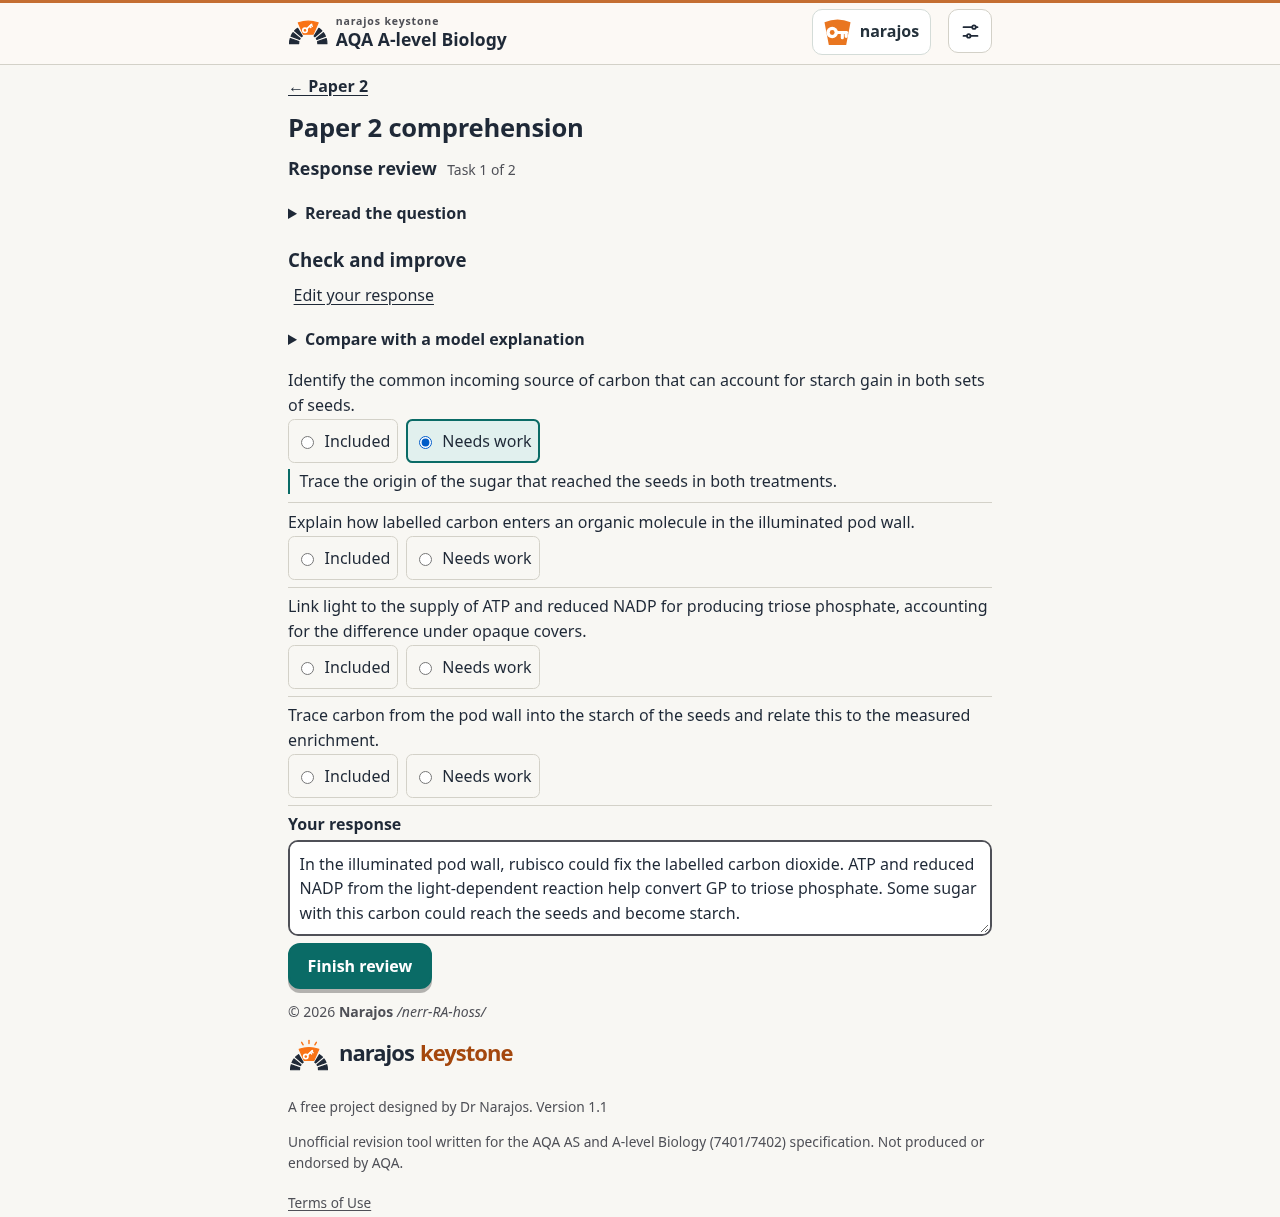
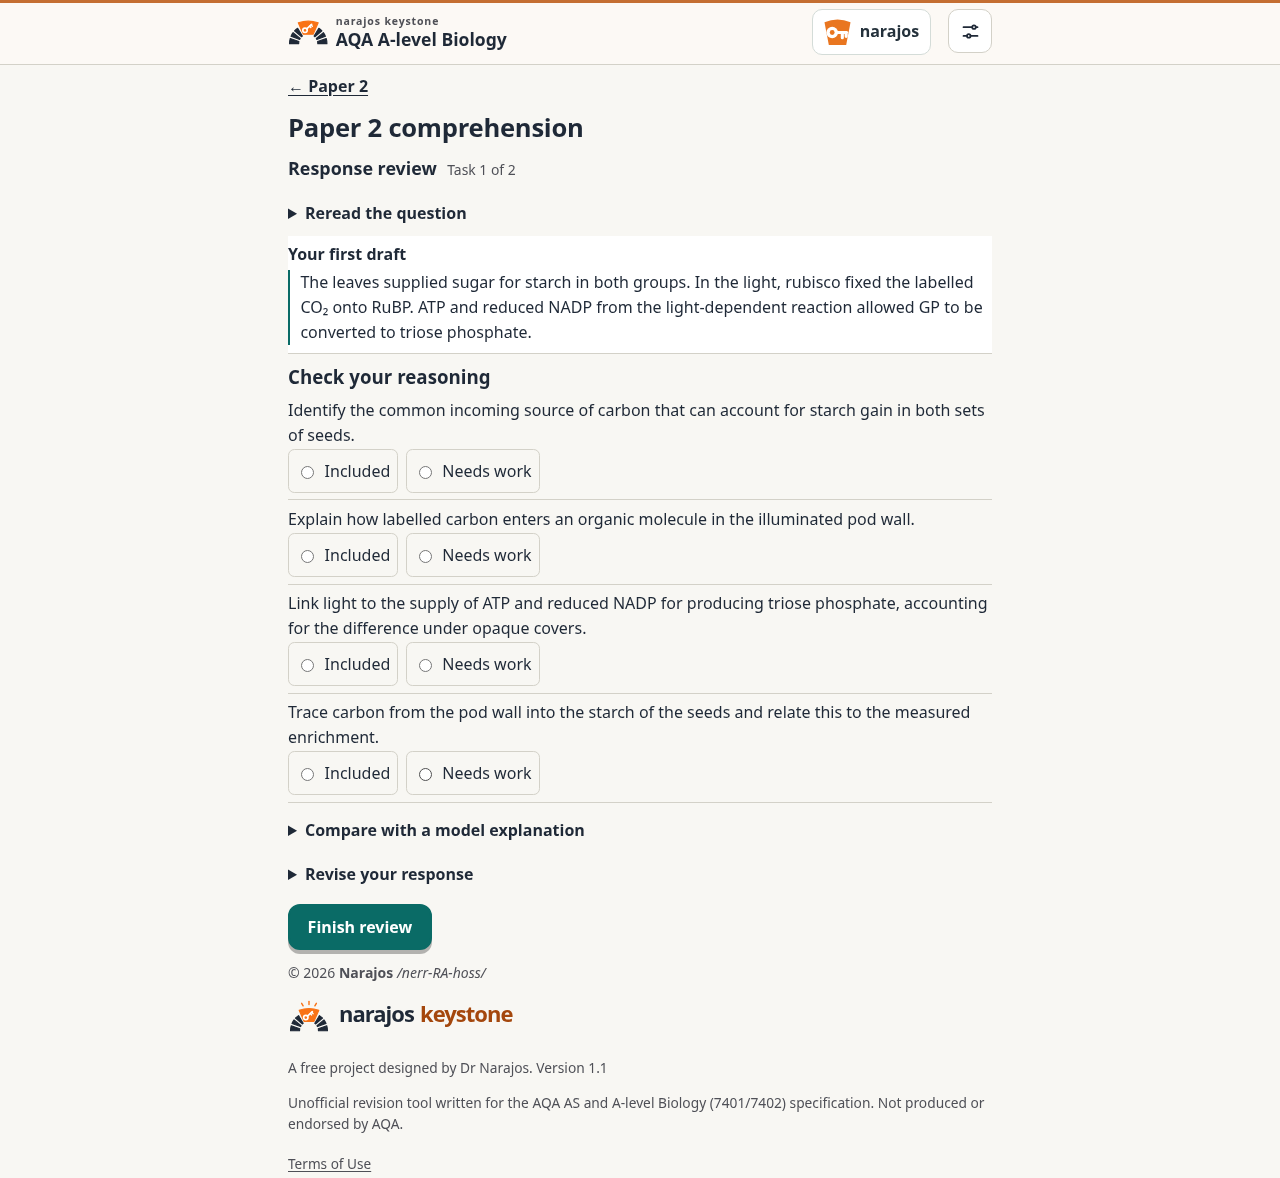
[skip ci] Keep the first biology response in view during self-review

Changed region(s): [[0.2188, 0.0, 0.7812, 1.0], [0.625, 0.0, 0.7188, 0.0611], [0.75, 0.0306, 0.7812, 0.0611]]

diff --git a/public/alevel/exam-skills.js b/public/alevel/exam-skills.js
@@ -47,14 +47,13 @@
     element.tabIndex = -1;
     element.focus();
   }
-  customElements.define("al-paper-table", class extends HTMLElement {
+  customElements.define("al-paper-scroll", class extends HTMLElement {
     connectedCallback() {
-      const grid = this.querySelector("table");
       const update = () => {
-        if (this.scrollWidth > this.clientWidth) {
+        if (this.scrollWidth > this.clientWidth || this.scrollHeight > this.clientHeight) {
           this.tabIndex = 0;
           this.setAttribute("role", "region");
-          this.setAttribute("aria-label", grid.caption.textContent);
+          this.setAttribute("aria-label", this.dataset.label);
         } else {
           this.removeAttribute("tabindex");
           this.removeAttribute("role");
@@ -63,7 +62,7 @@
       };
       this.sizeObserver = new ResizeObserver(update);
       this.sizeObserver.observe(this);
-      this.sizeObserver.observe(grid);
+      this.sizeObserver.observe(this.firstElementChild);
       update();
     }
     disconnectedCallback() {
@@ -72,8 +71,9 @@
   });
 
   function table(caption, headers, rows, highlights = [], paper = false) {
-    const wrap = node(paper ? "al-paper-table" : "div", null, "al-table"),
+    const wrap = node(paper ? "al-paper-scroll" : "div", null, "al-table"),
       t = node("table");
+    if (paper) wrap.dataset.label = caption;
     t.createCaption().textContent = caption;
     const hr = t.createTHead().insertRow();
     headers.forEach((h, i) => {
@@ -605,10 +605,10 @@
           const original = state.reviews[i]?.original;
           if (flow.paper && original && original !== state.drafts[i]) {
             const first = node("details");
-            first.append(node("summary", "Read your first draft"), node("p", original));
+            first.append(node("summary", "Read your first draft"), node("p", original, "al-saved-draft"));
             item.append(first);
           }
-          item.append(node("p", state.drafts[i]));
+          item.append(node("p", state.drafts[i], flow.paper ? "al-saved-draft" : null));
           const criteria = node("ul");
           q.points.forEach((point, j) => {
             const answer = state.reviews[i]?.choices?.[j];
@@ -652,6 +652,9 @@
       const accepted = isAccepted(i);
       const revealed = state.results[i]?.kind === "revealed";
       const review = state.reviews[i] || { choices: {} };
+      const paperReview = flow.paper && writing && review.open;
+      if (paperReview) review.original ??= state.drafts[i] || "";
+      const revised = paperReview && state.drafts[i] !== review.original;
       let phaseLabel = q.guided ? "With support" : "Your turn";
       if (flow.paper) {
         if (review.open) phaseLabel = "Response review";
@@ -742,7 +745,10 @@
           form.append(label);
         });
       } else {
-        const label = node("label", flow.paper ? "Your response" : "Your explanation", flow.paper ? "al-response-label" : null);
+        let labelText = flow.paper ? "Your response" : "Your explanation";
+        if (paperReview && (!accepted || revised)) labelText = "Your revised response";
+        const label = node("label", null, flow.paper ? "al-response-label" : null);
+        label.append(node("span", labelText, paperReview && !accepted ? "sr-only" : null));
         const text = node("textarea");
         if (!flow.paper) text.maxLength = 4000;
         text.name = "draft";
@@ -779,14 +785,12 @@
       else if (state.hints[i]) announce("Clue · " + hintsFor(q)[state.hints[i] - 1], "hint");
       else announce("", "");
 
+      let previousDraft;
       form.oninput = () => {
         if (hasCompletedTask(i)) return;
         if (writing) {
           state.drafts[i] = form.elements.draft.value;
-          if (review.open && review.original) {
-            const firstDraft = form.querySelector(".al-criteria details");
-            firstDraft.hidden = review.original === state.drafts[i];
-          }
+          if (previousDraft) previousDraft.hidden = review.original === state.drafts[i];
         }
         else if (q.kind === "number") state.responses[i] = form.elements.number.value;
         else if (q.kind === "group") state.responses[i] = [...form.querySelectorAll("select")].map(select => select.value);
@@ -797,12 +801,19 @@
       form.append(status);
       if (review.open && writing) {
         const criteria = node("section", null, "al-criteria");
-        criteria.append(node("h3", "Check and improve"));
         if (flow.paper) {
-          const toResponse = button("Edit your response", () => form.elements.draft.focus());
-          toResponse.classList.add("al-secondary");
-          if (!accepted) criteria.append(toResponse);
-        } else criteria.append(node("p", "Compare each point with your draft. Add any missing scientific link before finishing your review."));
+          const first = node("div", null, "al-first-draft");
+          const title = node("h3", "Your first draft");
+          const excerpt = node("al-paper-scroll", null, "al-draft-text");
+          excerpt.dataset.label = title.textContent;
+          const cue = node("span", "Scroll to read", "al-draft-cue");
+          cue.setAttribute("aria-hidden", "true");
+          title.append(cue);
+          excerpt.append(node("p", review.original, "al-saved-draft"));
+          first.append(title, excerpt);
+          criteria.append(first, node("h3", "Check your reasoning"));
+        } else criteria.append(node("h3", "Check and improve"),
+          node("p", "Compare each point with your draft. Add any missing scientific link before finishing your review."));
         const model = node("details");
         const summary = node("summary", "Compare with a model explanation");
         model.append(summary);
@@ -810,13 +821,13 @@
         if (flow.paper) summary.onclick = () => {
           if (!model.open && !review.modelRead) { review.modelRead = true; persist(); }
         };
-        if (review.original) {
-          const original = node("details");
-          original.hidden = review.original === state.drafts[i];
-          original.append(node("summary", "Read your first draft"), node("p", review.original));
-          criteria.append(original);
+        if (!flow.paper && review.original) {
+          previousDraft = node("details");
+          previousDraft.hidden = review.original === state.drafts[i];
+          previousDraft.append(node("summary", "Read your first draft"), node("p", review.original));
+          criteria.append(previousDraft);
         }
-        criteria.append(model);
+        if (!flow.paper) criteria.append(model);
         q.points.forEach((point, j) => {
           const field = node("fieldset");
           field.append(node("legend", point));
@@ -852,15 +863,18 @@
           criteria.append(field);
         });
         if (q.reviewNote) criteria.append(node("p", q.reviewNote));
+        if (flow.paper) criteria.append(model);
+        if (flow.paper && !accepted) {
+          const revision = node("details", null, "al-revision");
+          revision.open = revised;
+          revision.append(node("summary", "Revise your response"), form.querySelector(".al-response-label"));
+          criteria.append(revision);
+        }
         if (flow.paper && accepted) {
           const checklist = node("details", null, "al-completed-review");
           checklist.append(node("summary", "Review your checklist"), criteria);
-          form.append(checklist);
+          form.append(form.querySelector(".al-response-label"), checklist);
         } else form.append(criteria);
-        if (flow.paper) {
-          // Keep the editable answer and Finish review adjacent on small screens.
-          form.append(form.querySelector(".al-response-label"));
-        }
       }
 
       const submit = node("button", accepted || revealed ? "" : review.open ? "Finish review" :
@@ -938,7 +952,10 @@
         if (hasCompletedTask(i)) return;
         if (writing) {
           if (form.elements.draft.value.trim().length < 12) {
-            announce("Write an explanation before comparing it.", "improve");
+            const revision = form.querySelector(".al-revision");
+            if (revision) revision.open = true;
+            announce(revision ? "Write your revised explanation before finishing." : "Write an explanation before comparing it.", "improve");
+            if (flow.paper) form.elements.draft.focus();
             return;
           }
           state.drafts[i] = form.elements.draft.value;
@@ -952,7 +969,8 @@
             focus(block.querySelector(".al-criteria h3"));
           } else if (q.points.some((_, j) => !review.choices[j])) {
             announce("Choose Included or Needs work for each criterion.", "improve");
-            focus(status);
+            if (flow.paper) form.querySelector("fieldset:not(:has(:checked)) input").focus();
+            else focus(status);
           } else {
             if (flow.paper && state.drafts[i] !== (review.lastSubmission || review.original)) {
               state.attempts[i] = (state.attempts[i] || 0) + 1;

diff --git a/public/alevel/exam-skills.css b/public/alevel/exam-skills.css
@@ -71,7 +71,7 @@
 .al-table {
   overflow: auto;
 }
-al-paper-table {
+al-paper-scroll {
   display: block;
 }
 .al-figures {
@@ -604,8 +604,59 @@ main:has(.al-catchup-journey) > h1 {
   padding: 0;
   background: transparent;
 }
+.al-paper-practice:has(.al-revision) {
+  /* Opening a repair should keep its selected radio in view. */
+  overflow-anchor: none;
+}
 .al-paper-practice .al-criteria h3 {
   margin: .55rem 0 0;
+}
+.al-paper-practice .al-first-draft {
+  position: sticky;
+  inset-block-start: 0;
+  z-index: 1;
+  background: var(--card);
+  border-block-end: 1px solid var(--line);
+  padding-block: .4rem .5rem;
+}
+.al-paper-practice .al-first-draft h3 {
+  font-size: 1rem;
+  margin: 0 0 .2rem;
+}
+.al-draft-cue {
+  display: none;
+  margin-inline-start: .65em;
+  font-size: .85em;
+  font-weight: 400;
+  color: var(--muted);
+}
+.al-first-draft:has(.al-draft-text[tabindex]) .al-draft-cue {
+  display: inline-block;
+}
+.al-draft-text {
+  max-block-size: min(22vh, 10rem);
+  max-block-size: min(22svh, 10rem);
+  overflow-y: auto;
+  padding-inline-start: .65rem;
+  border-inline-start: 2px solid var(--acc);
+}
+.al-saved-draft {
+  white-space: pre-wrap;
+  overflow-wrap: anywhere;
+}
+.al-draft-text p {
+  margin: 0;
+}
+/* Give the draft the top edge while a pupil compares or revises a response. */
+body:has(.al-revision, .al-completed-review[open]) header.top {
+  position: static;
+}
+html:has(.al-revision, .al-completed-review[open]) {
+  --al-draft-clearance: calc(min(22vh, 10rem) + 3rem);
+  scroll-padding-block-start: var(--al-draft-clearance);
+}
+.al-paper-practice .al-criteria :is(input, label, summary, textarea) {
+  scroll-margin-block-start: var(--al-draft-clearance);
 }
 .al-paper-practice .al-criteria fieldset {
   border: 0;

diff --git a/docs/alevel-paper-review/README.md b/docs/alevel-paper-review/README.md
@@ -1,6 +1,16 @@
 # A-level Biology paper practice in the browser
 
-Each row opens the original screenshot at its captured size. The mobile viewport was 390 × 844 CSS pixels with touch emulation. The desktop viewport was 1280 × 900. Both used Chromium at 100% zoom. Self-review images show the whole document at that viewport width so every criterion is visible. The other images show one screen. The captures follow the controls a pupil can use on the site. The response examples were written for this review.
+The screenshots use demonstration responses and follow the controls available to pupils. They were captured in Chromium at 100% zoom on a 390 × 844 touch viewport and a 1280 × 900 desktop viewport.
+
+## Mobile self-review and revision
+
+Start with the whole checklist, then follow one missing point through feedback, revision and a saved response after reload. Each of the last three images shows a single phone screen. In the essay revision, the pupil has scrolled the original answer to the second paragraph to compare its ending with the revision.
+
+| Pathway | First draft and criteria | Selected “Needs work” prompt | Edit with the original in view | Saved response |
+| --- | --- | --- | --- | --- |
+| Paper 2 comprehension | [Whole checklist](passages/self-review-mobile.webp) | [Carbon transfer into the seed](passages/feedback-mobile.webp) | [Revise the explanation](passages/revision-mobile.webp) | [After reload](passages/saved-mobile.webp) |
+| Paper 3 investigations | [Whole checklist](investigations/self-review-mobile.webp) | [Variation among plants](investigations/feedback-mobile.webp) | [Revise the evaluation](investigations/revision-mobile.webp) | [After reload](investigations/saved-mobile.webp) |
+| Paper 3 essay writing | [Whole checklist](essaywriting/self-review-mobile.webp) | [Why removal matters](essaywriting/feedback-mobile.webp) | [Develop the paragraph endings](essaywriting/revision-mobile.webp) | [After reload](essaywriting/saved-mobile.webp) |
 
 ## Paper 2 comprehension
 
@@ -11,10 +21,10 @@ The worked coral example connects membrane damage to the alga’s sugar supply. 
 | Worked example with the question and a step in the explanation | [Mobile](passages/worked-mobile.webp) | [Desktop](passages/worked-desktop.webp) |
 | Pea-pod passage, measurements and command | [Mobile](passages/question-mobile.webp) | [Desktop](passages/question-desktop.webp) |
 | First response in the writing field | [Mobile](passages/response-mobile.webp) | [Desktop](passages/response-desktop.webp) |
-| Self-review of the missing carbon source | [Mobile](passages/self-review-mobile.webp) | [Desktop](passages/self-review-desktop.webp) |
+| First response and all four self-review criteria | [Mobile](passages/self-review-mobile.webp) | [Desktop](passages/self-review-desktop.webp) |
 | Next independent passage on the insect sensory neurone | [Mobile](passages/next-mobile.webp) | [Desktop](passages/next-desktop.webp) |
 
-<a href="passages/self-review-mobile.webp"><img src="passages/self-review-mobile.webp" alt="Full mobile self-review for the Paper 2 draft" width="165"></a>
+<a href="passages/feedback-mobile.webp"><img src="passages/feedback-mobile.webp" alt="A pupil checking the carbon-transfer criterion on mobile" width="230"></a>
 
 ## Paper 3 investigations
 
@@ -25,10 +35,10 @@ The worked example compares oxygen uptake in stirred and unstirred seed batches.
 | Worked comparison of seed-batch measurements | [Mobile](investigations/worked-mobile.webp) | [Desktop](investigations/worked-desktop.webp) |
 | Bean experiment, measurements and supplier’s claim | [Mobile](investigations/question-mobile.webp) | [Desktop](investigations/question-desktop.webp) |
 | First evaluation in the writing field | [Mobile](investigations/response-mobile.webp) | [Desktop](investigations/response-desktop.webp) |
-| Self-review of the treatment comparison at 35% humidity | [Mobile](investigations/self-review-mobile.webp) | [Desktop](investigations/self-review-desktop.webp) |
+| First evaluation and all four self-review criteria | [Mobile](investigations/self-review-mobile.webp) | [Desktop](investigations/self-review-desktop.webp) |
 | Next independent evaluation of a meadow study | [Mobile](investigations/next-mobile.webp) | [Desktop](investigations/next-desktop.webp) |
 
-[![Leaf-film experiment and its data table on mobile](investigations/question-mobile.webp)](investigations/question-mobile.webp)
+<a href="investigations/revision-mobile.webp"><img src="investigations/revision-mobile.webp" alt="Revising the judgement about variation in plant mass loss on mobile" width="230"></a>
 
 ## Paper 3 essay writing
 
@@ -39,7 +49,7 @@ The worked example develops the importance of membranes using two different area
 | Worked essay example and a developed biological link | [Mobile](essaywriting/worked-mobile.webp) | [Desktop](essaywriting/worked-desktop.webp) |
 | First title and writing task | [Mobile](essaywriting/question-mobile.webp) | [Desktop](essaywriting/question-desktop.webp) |
 | Two paragraph openings in the writing field | [Mobile](essaywriting/response-mobile.webp) | [Desktop](essaywriting/response-desktop.webp) |
-| Self-review of the sites of removal | [Mobile](essaywriting/self-review-mobile.webp) | [Desktop](essaywriting/self-review-desktop.webp) |
+| First two paragraphs and all four self-review criteria | [Mobile](essaywriting/self-review-mobile.webp) | [Desktop](essaywriting/self-review-desktop.webp) |
 | Next independent essay title on movement within cells | [Mobile](essaywriting/next-mobile.webp) | [Desktop](essaywriting/next-desktop.webp) |
 
-[![Independent essay title and response field on desktop](essaywriting/next-desktop.webp)](essaywriting/next-desktop.webp)
+<a href="essaywriting/saved-mobile.webp"><img src="essaywriting/saved-mobile.webp" alt="Saved essay review on mobile" width="230"></a>

diff --git a/docs/alevel-independent-reasoning.md b/docs/alevel-independent-reasoning.md
@@ -37,7 +37,9 @@ A pupil can start with the independent question. In guided practice, removing a 
 
 ## Review after the exam-year layout changes
 
-The three pathways use the shared Exam Skills renderer from PR #82. The passage, investigation or essay title comes first. A bold question follows the stimulus and any data table, directly above the writing field. Worked examples use the same reading order before showing the current reasoning step. During self-review, pupils can reopen the question, select a specific repair and edit their original response. The completed checklist folds away before the next question. [Mobile and desktop screenshots of all five stages](alevel-paper-review/README.md)
+The three pathways use the shared Exam Skills renderer from PR #82. The passage, investigation or essay title comes first. A bold question follows the stimulus and any data table, directly above the writing field. Worked examples use the same reading order before showing the current reasoning step.
+
+During self-review, the pupil’s first draft sits immediately above the criteria and stays in view as they read each point. Choosing “Needs work” shows the question-specific prompt beside that criterion. “Revise your response” opens a copy of the pupil’s answer for editing. Finishing saves the pupil’s judgements and keeps both versions available. Written work carries the outcome “self-reviewed” and earns no automatic marks. [Rendered activities and mobile revision journeys](alevel-paper-review/README.md)
 
 At a 390-pixel viewport, the gap from the bottom of the independent question to the top of its writing field fell from 633 to 34 pixels in the pea-pod task and from 657 to 34 in the leaf-film investigation. Both measurements include the response label. The table and all of its values remain visible before the question.
 
